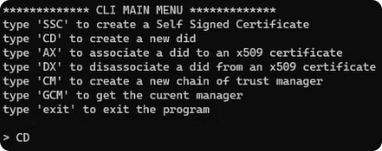
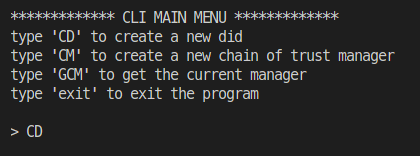
fix: simplify onboarding instructions

diff --git a/README.md b/README.md
@@ -37,64 +37,6 @@ $ bash client-helper.sh
 ![](https://github.com/lacchain/LACPass-LACChain-Component/blob/main/examples/CLIMainMenu.png)
 
 
-## Onboarding Health organizations to the LACPass trust network 
-
-To onboard your country's health organization in the LACPass trust network please verify if your health organization has a Public Key Infrastructure in place, and review the following options. 
-
-### Countries without Public Key Infrastructure (PKI)
-If the Health organization of your Country doesn't have a Public Key Infrastructure in place, you will be asked to create an X.509 self-signed certificate (SSC) as follows.
-
-In the CLI Main Menu type 'SSC' and enter the requested information: 
-
-1. The first step is entering the [Country code](https://en.wikipedia.org/wiki/ISO_3166-1_alpha-2) for the Health organization self-signed certificate:
-
-![](https://github.com/lacchain/LACPass-LACChain-Component/blob/main/examples/X509CountryCode.png)
-
-2. Now you may enter the [State code](https://en.wikipedia.org/wiki/ISO_3166-2) from the selected Country (for example: https://en.wikipedia.org/wiki/ISO_3166-2:BR if the country were Brazil), or you may press enter to skip this step:
-
-![](https://github.com/lacchain/LACPass-LACChain-Component/blob/main/examples/X509StateCode.png)
-
-3. Next, enter your Health organization name (for example: Ministry of Health of Peru Demo Brasil) as shown:
-
-![](https://github.com/lacchain/LACPass-LACChain-Component/blob/main/examples/X509HealthOrganization.png)
-
-4. Next step, you will be asked to enter a common name for your Health organization (for example: BrasilDemo_MoH), or you may press enter to skip this step:
-
-![](https://github.com/lacchain/LACPass-LACChain-Component/blob/main/examples/X509HealthOrganizationCommonName.png)
-
-5. After completing these steps, the data specified for the self-signed certificate will be displayed asking you to confirm. **Note:** Keep in mind that if a valid Country code wasn't specified you will probably get an error.
-
-![](https://github.com/lacchain/LACPass-LACChain-Component/blob/main/examples/X509DataConfirmation.png)
-
-6. Once confirmed, the self-signed certificate creation with the data is displayed:
-
-![](https://github.com/lacchain/LACPass-LACChain-Component/blob/main/examples/X509Creation.png)
-
-7. A subdirectory named `/certs` is created inside the directory you are running the script, containing two subdirectories **Document Signer Certificates** `/DSC` and **Signing Certificate Authority** `/SCA` as displayed:
-
-![](https://github.com/lacchain/LACPass-LACChain-Component/blob/main/examples/certsDirSubdirs.png)
-
-The Document Signer Certificates `/DSC` subdirectory contains three files:
-
-a) `DSC.crt` is the X.509 certificate.
-
-b) `DSC.csr` is the Certificate Signing Request contains the public key and common name required by a Certificate Authority.
-
-c) `DSC.key` is the private key used to sign Health Certificates, if your Health organization will use this key (optional), please complete these steps:
-- Copy the `DSC.key` file into the `cert-data` directory located in the root directory of your `IPS-national-backend` repository.
-- Rename the new copy of `DSC.key` to `priv.pem`
-
-The Signing Certificate Authority `/SCA` subdirectory contains two files:
-
-a) `SCA.crt` is the X.509 certificate.
-
-b) `SCA.key` is the Signing Certificate Authority private key.
-
-Once completed these steps you have successfully created a self-signed certificate (SSC) for your Country's Health organization.
-
-### Countries with Public Key Infrastructure (PKI)
-If the Health organization of your Country has a Public Key Infrastructure in place, the onboarding process will require to use your existing X.509 certificate to complete the onboarding process. 
-
 ## Onboard health organizations setup process
 
 Using your Country Health Organization PKI X.509 certificates, please follow this steps for the onboard setup of your Health organization in the LACPass trust network:
@@ -107,17 +49,7 @@ and a DID will be created and saved in a `did.txt` file:
 
 ![](https://github.com/lacchain/LACPass-LACChain-Component/blob/main/examples/didtxtfile.png)
 
-2. The next step is to associate the DID created in the previous step with the X.509 Certificate that will be used to sign Health certificates, type 'AX' in the CLI Main Menu and enter the path where the X.509 certificate is located. (If you created a self-signed certficate the path would be as in step 7): 
-    
-![](https://github.com/lacchain/LACPass-LACChain-Component/blob/main/examples/X509path.png)
-
-After entering the appropriate path you should get a successful message, inidcating the X.509 certificate was successfully associated with the DID:
-
-![](https://github.com/lacchain/LACPass-LACChain-Component/blob/main/examples/didx509association.png)
-
-**Note:** the DID must remain the same for the association with the X.509 certificate to be valid.
-
-3. Afterwards, a DID manager must be created, type 'CM' in the CLI Main Menu and enter the number of days in which the manager will be considered valid, for example: 1000 days. Do not enter a number less than 365 days.
+2. Afterwards, a DID manager must be created, type 'CM' in the CLI Main Menu and enter the number of days in which the manager will be considered valid, for example: 1000 days. Do not enter a number less than 365 days.
 
 ![](https://github.com/lacchain/LACPass-LACChain-Component/blob/main/examples/creatingManager.png)
 
@@ -132,7 +64,6 @@ and a successful response will be displayed:
 After completing the onboard setup process, the following information will be in the `lacchain-setup-helper` directory:
 
 - A `did.txt` file containing the decentralized identifier (DID) of your organization, have it handy in case you need to access the DID.
-- The `/certs` directory containing the `/DSC` and `/SCA` subdirectories.
 
 ## Sharing the information for onboarding the LACPass trust network
 
@@ -150,9 +81,7 @@ Copy the content in a text file and name the file something like `Entity-Manager
 
 a) `Entity-Manager-Details.txt` file
 
-b) The `SCA.crt` file, located in the directory `lacchain-setup-helper/certs/SCA/SCA.crt`  **Note:** if your Health organization has a Public Key Infrastructure in place, you may not include this file.  
-
-c) Organization identifying information in a text file:
+b) Organization identifying information in a text file:
 
 ```
   i. Legal name
@@ -185,7 +114,7 @@ As explained in [Verify service availability](https://github.com/lacchain/LACPas
 ```
 
 Where:
-* **bundle:** DDCC FHIR bundle, just copy and paste the full FHIR bundle
+* **bundle:** DDCC FHIR Bundle, just copy and paste the full FHIR Bundle
 * **IssuerDid:** Issuer DID, this is the decentralized identifier you created in the section Running Setup/Onboard steps in step 6 and that is available in the lacchain-setup-helper/did.txt file
 * **receiverDid:** This is the Receiver DID (the patient/individual receiving the certificate) will share with you to receive the issued credential in their wallet. Patients/individuals can easily get their unique decentralized identifier (DID) after setting up their digital wallet available at https://lacpass-openprotest-wallet.lacchain.net/
 
@@ -197,7 +126,6 @@ Where:
 
 - Internet access
 - Web browser (Chrome, Firefox) desktop or mobile
-- Metamask browser extension
 - Access to the digital wallet setup available at https://lacpass-openprotest-wallet.lacchain.net/
 
 Please follow this steps to setup your digital wallet:

diff --git a/LEEME.md b/LEEME.md
@@ -118,7 +118,7 @@ Para enviar certificados de salud DDCCCoreDataSet puede usar la herramienta [Pos
 ```
 
 Donde:
-* **bundle:** bundle FHIR DDCC, únicamente copiar y pegar el bundle completo.
+* **bundle:** Bundle FHIR DDCC, únicamente copiar y pegar el Bundle completo.
 * **IssuerDid:** DID del Emisor, este es el DID creado en la sección [Proceso de configuración para incorporar organizaciones de salud](https://github.com/lacchain/LACPass-LACChain-Component/blob/main/LEEME.md#proceso-de-configuraci%C3%B3n-para-incorporar-organizaciones-de-salud) en el paso 1 y se encuentra disponible en el archivo `lacchain-setup-helper/did.txt`.
 * **receiverDid:** DID del Receptor (el paciente/individuo que recibe el certificado) que debe compartir con Usted para recibir la credencial emitida en su billetera. Los individuos/pacientes pueden obtener su identificador decentralizado (DID) luego de registrar su billetera digital disponible en https://lacpass-openprotest-wallet.lacchain.net/.
 
